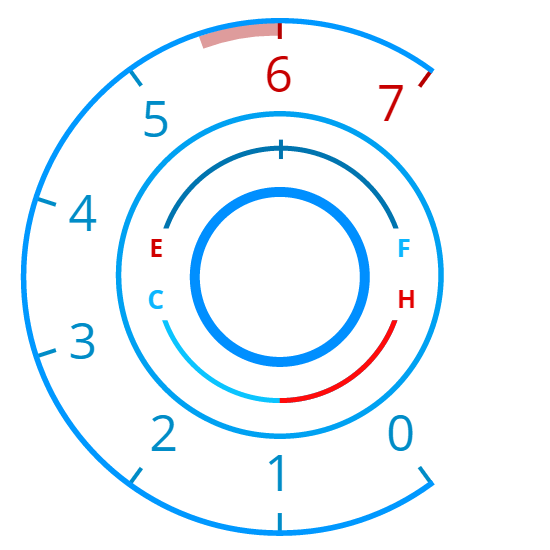
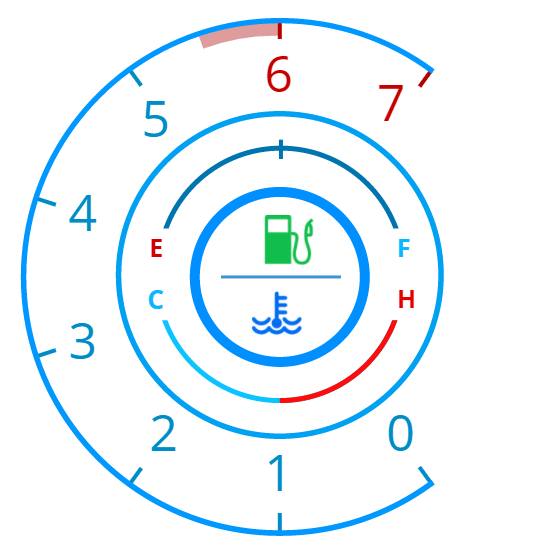
added standard tab

Changed region(s): [[0.4018, 0.3709, 0.6182, 0.6182]]

diff --git a/main.qml b/main.qml
@@ -24,14 +24,18 @@ Window {
             id: optiontabs
             anchors.centerIn: parent
             anchors.verticalCenterOffset: -310
-            width: 200
+            width: 360
 
             TabButton {
-                width: 100
+                width: 120
+                text: "Standard"
+            }
+            TabButton {
+                width: 120
                 text: "Mustang"
             }
             TabButton {
-                width: 100
+                width: 120
                 text: "Navigation"
             }
         }
@@ -42,6 +46,10 @@ Window {
             height: 620
             currentIndex: optiontabs.currentIndex
             anchors.bottom : background.bottom
+            Item{
+                id: standard
+            }
+
             Item {
                 id: mustangtab
                 Rectangle{

diff --git a/Navigation.qml b/Navigation.qml
@@ -41,11 +41,12 @@ Item {
         target: Work
         onGpsLat: {
             console.log(Lat);
-            dashmap.lat = (Lat).toFixed(7)
+            dashmap.lat = (Lat).toFixed(9)
         }
         onGpsLong: {
             console.log(Long);
-            dashmap.lon = (Long).toFixed(7)
+            dashmap.lon = (Long).toFixed(9);
+            dashmap.pan(310,960)
         }
     }
 }

diff --git a/serialobd.cpp b/serialobd.cpp
@@ -3,6 +3,7 @@
 void SerialOBD::ConnectToSerialPort()
 {
     //ParseAndReportClusterData("OPPED\r\r>10C0D2F0511\rS");//For testing purposes
+    //emit obdTroubleCode("P1256");
 
     //triggers if engine has been turned off
     connect(this,SIGNAL(onEngineOff()),this,SLOT(EngineOff()));
